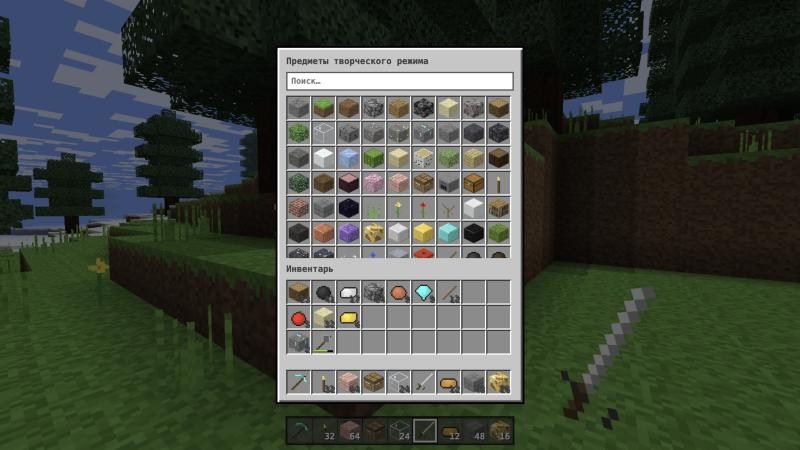
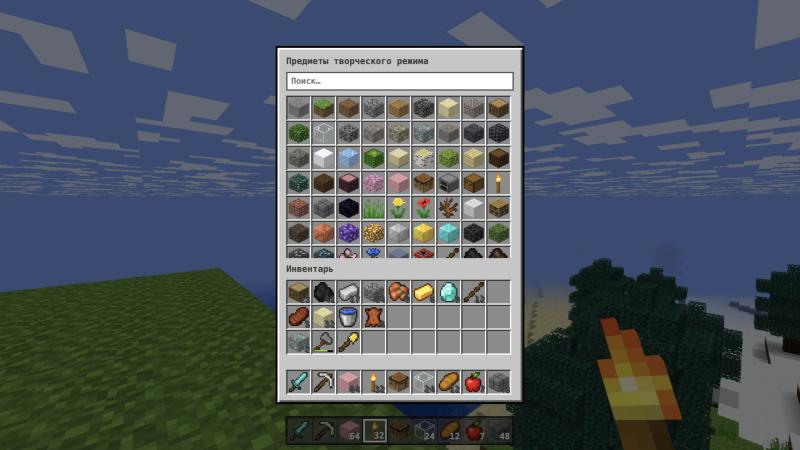
README: generated textures, 3D hand, music, new screenshots

diff --git a/README.md b/README.md
@@ -10,15 +10,16 @@
 ![TypeScript](https://img.shields.io/badge/TypeScript-strict-3178c6?logo=typescript&logoColor=white)
 ![Three.js](https://img.shields.io/badge/Three.js-r170-000000?logo=threedotjs&logoColor=white)
 ![Vite](https://img.shields.io/badge/Vite-5-646cff?logo=vite&logoColor=white)
-![Vitest](https://img.shields.io/badge/Vitest-272_tests-6e9f18?logo=vitest&logoColor=white)
+![Vitest](https://img.shields.io/badge/Vitest-387_tests-6e9f18?logo=vitest&logoColor=white)
 ![Languages](https://img.shields.io/badge/i18n-EN_·_DE_·_AZ_·_RU-c97557)
-![Assets](https://img.shields.io/badge/assets-100%25_procedural-8662bf)
+![Textures](https://img.shields.io/badge/textures-generated_with_Higgsfield-8662bf)
+![Audio](https://img.shields.io/badge/music_%26_sound-synthesized_live-e07b39)
 
 <br>
 
-<img src="docs/screenshots/gameplay.jpg" alt="Terraced hills and a cherry grove in VoxelCraft" width="860">
+<img src="docs/screenshots/gameplay.jpg" alt="A pig, cow, sheep, zombie and creeper in a cherry grove, diamond sword in hand" width="860">
 
-<sub><i>Survival mode at noon — terraced hills rolling up into a cherry grove.</i></sub>
+<sub><i>Survival at noon in a cherry grove — and everybody came to say hello.</i></sub>
 
 </div>
 
@@ -31,7 +32,7 @@
 <td width="50%" valign="top">
 
 **🌍 An endless, seeded world**<br>
-Twelve biomes — from snowy peaks and spruce taiga to deserts, swamps and the 1.20 **cherry grove** — carved by spaghetti caves and cheese caverns, layered with deepslate and tuff, and seeded with coal, iron, copper, gold and diamond.
+Twelve biomes — from snowy peaks and spruce taiga to deserts, swamps and the 1.20 **cherry grove** — carved by spaghetti caves and cheese caverns, layered with deepslate and tuff, seeded with coal, iron, copper, gold and diamond, and washed by **water and lava that really flow** (pick them up with a bucket).
 
 </td>
 <td width="50%" valign="top">
@@ -58,14 +59,22 @@ Health, hunger and saturation, fall damage and drowning, tool tiers and break ti
 <tr>
 <td valign="top">
 
-**🎨 Zero external assets**<br>
-Every texture is painted in code, pixel by pixel. Every sound — footsteps, block breaks, explosions — is synthesized live with the Web Audio API. Nothing is copied from the original game.
+**🎨 Generated art, synthesized sound**<br>
+All 147 textures — blocks, items and mob skins — were generated for this project with **Higgsfield** and cut into crisp 16×16 tiles by a tested pipeline. Original piano music is composed on the fly, and every sound, from footsteps to a cow's moo, is synthesized live. Nothing is copied from the original game.
 
 </td>
 <td valign="top">
 
+**🗡 Hands that feel right**<br>
+Held items are extruded into 3D from their own pixels, tools are gripped by the handle, and the hand follows Minecraft's swing, equip, eating and walking curves. Pigs, cows, sheep, zombies and creepers are textured box models with swinging limbs.
+
+</td>
+</tr>
+<tr>
+<td colspan="2" valign="top">
+
 **🧪 Built test-first**<br>
-272 unit tests across 19 suites pin down terrain, light, physics, crafting, mobs, saving and the full game loop. The whole suite runs in about four seconds.
+387 unit tests across 25 suites pin down terrain, light, fluids, physics, crafting, mobs, the texture pipeline, hand animation, music, saving and the full game loop. The whole suite runs in a few seconds.
 
 </td>
 </tr>
@@ -91,10 +100,16 @@ Every texture is painted in code, pixel by pixel. Every sound — footsteps, blo
 <td align="center"><sub>The creative inventory — in Russian</sub></td>
 </tr>
 <tr>
-<td colspan="2"><img src="docs/screenshots/sunset.jpg" alt="Sunset over snowy spruce hills"></td>
+<td colspan="2"><img src="docs/screenshots/sunset.jpg" alt="Sunset over snowy spruce hills, iron pickaxe in hand"></td>
 </tr>
 <tr>
 <td colspan="2" align="center"><sub>Sunset over the snowy taiga</sub></td>
+</tr>
+<tr>
+<td colspan="2"><img src="docs/screenshots/textures.png" alt="The complete texture atlas: blocks, plants, items, tools and mob skins"></td>
+</tr>
+<tr>
+<td colspan="2" align="center"><sub>Every texture in the game — generated with Higgsfield, sampled down to 16×16</sub></td>
 </tr>
 </table>
 
@@ -112,6 +127,7 @@ npm run dev        # start the dev server and open the game
 npm test           # run the unit-test suite
 npm run build      # type-check and produce an optimized build in dist/
 npm run preview    # serve the production build
+npm run textures   # rebuild the 16×16 tiles from assets/sheets
 ```
 
 ## 🎮 Controls
@@ -152,10 +168,10 @@ A test guarantees that all four dictionaries contain exactly the same keys and p
 
 | | |
 | :--- | :--- |
-| **Blocks** | 63 — stone, deepslate, tuff, four wood types, ores and their deepslate variants, copper and amethyst blocks, glass, ice, glowstone, TNT, flowers, pink petals… |
-| **Items** | 109 — 24 tools across six tiers (wood → netherite), ingots, raw ores, food |
+| **Blocks** | 60+ — stone, deepslate, tuff, four wood types, ores and their deepslate variants, copper and amethyst blocks, glass, ice, glowstone, TNT, flowers, pink petals, flowing water and lava… |
+| **Items** | 112 — 24 tools across six tiers (wood → netherite), ingots, raw ores, food, buckets |
 | **Biomes** | Ocean · beach · plains · forest · birch forest · desert · taiga · snowy plains · snowy peaks · windswept hills · cherry grove · swamp |
-| **Creatures** | Pig · cow · sheep · zombie · creeper |
+| **Creatures** | Pig · cow · sheep · zombie · creeper — textured, animated, and each with its own voice |
 | **World** | 128 blocks tall, streamed in 16×16 chunks around the player, with player edits and containers saved per world |
 
 ## 🏗 Under the hood
@@ -172,12 +188,13 @@ flowchart LR
     S["game/<br/>GameSession · inventory · crafting<br/>mining · furnace · mobs · saves"]
     M["render/mesher<br/>culling · AO · light"]
     L["i18n/<br/>en · de · az · ru"]
+    T["tools/<br/>texture pipeline"]
   end
   subgraph Shell["Browser shell"]
     direction TB
-    R["Three.js renderer<br/>sky · entities · hand"]
+    R["Three.js renderer<br/>sky · mobs · 3D hand"]
     U["DOM UI<br/>HUD · menus · inventories"]
-    A["Web Audio<br/>synthesized sounds"]
+    A["Web Audio<br/>generative music · sounds"]
   end
   App["app.ts<br/>state machine · input · game loop"]
   App --> S
@@ -187,12 +204,16 @@ flowchart LR
   S --> W & G & P
   R --> M
   U --> L
+  T -.->|build time| R
 ```
 
 - **`GameSession`** is the heart of the game: every player action — mining, placing, crafting, eating, fighting — goes through it, so the integration tests drive it exactly the way the UI does.
 - **Terrain** blends continentalness, erosion, temperature and humidity noise, then carves caves and places ores and trees per chunk — deterministic for a given seed and independent of load order.
 - **Lighting** is a breadth-first flood fill (sky light and block light in one packed byte per voxel) with incremental add and remove passes when blocks change, propagating across chunk borders.
 - **Meshing** copies each 16³ section plus a one-block border into flat arrays, then emits only visible faces, with ambient occlusion and per-vertex light. A custom GLSL shader applies daylight, warm torchlight and distance fog.
+- **Textures** start as 17 AI-generated sheets in `assets/sheets/`. `npm run textures` decodes them, samples the centre of every art pixel, keys out the magenta background and writes `src/render/tiles.generated.ts` — so tests run against the real textures.
+- **The hand** is pure math: a pose matrix per kind of held thing plus Minecraft's swing curve (`sin(p²π)`, `sin(√p·π)`), driven by an animator for swings, item swaps, eating and walking.
+- **Music** is composed, not recorded: seventh-chord progressions, a slow bass arpeggio and a sparse melody, major by day and minor at night, played on a small additive piano with reverb and spaced by minutes of silence.
 
 ### Performance
 
@@ -216,19 +237,22 @@ Every gameplay module was written red → green: a failing test first, then the 
 | `world/light` | Sunlight and shadows · torch falloff · light removal · walls · cross-chunk propagation · water dimming |
 | `physics` | Gravity · fall distance · walk/sprint/sneak speeds · jump height · wall sliding · no tunnelling · ceilings · edge sneaking · swimming · flying · raycasts · bad time steps |
 | `game` | Inventory and slot clicks · crafting · mining speed and drops · furnace · health, hunger and air · day cycle · mob AI, combat and spawning · explosions · saves · settings · a full `GameSession` integration suite |
-| `render` | Texture atlas · procedural textures · mesher culling, AO, light, water and plants · fast-path equivalence |
+| `render` | Texture atlas · every tile generated · mesher culling, AO, light, water and plants · fast-path equivalence · mob models · hand poses, swing, equip and eating · item extrusion |
+| `tools` | PNG decoding (all five row filters) · cell sampling · magenta keying · content cropping |
+| `audio` | Composer stays in key, major/minor by time of day, calm density and range · director spacing · mob voices by distance |
 | `i18n` | Identical keys and placeholders in all four languages · every block, item and biome is named · fallback · browser language detection |
 | `ui` · `input` | HUD icons · tooltips · death messages · shift-click routing · crafting results · creative search · keyboard state machine |
 
 ```bash
 npm test
-#  Test Files  19 passed (19)
-#       Tests  272 passed (272)
+#  Test Files  25 passed (25)
+#       Tests  387 passed (387)
 ```
 
 ## 🗺 Roadmap
 
-- [ ] Flowing water and lava, plus buckets
+- [x] Flowing water and lava, plus buckets
+- [x] Generated textures, textured mobs, 3D held items, music
 - [ ] Slabs, stairs, doors and beds
 - [ ] Directional blocks (furnaces and chests that face the player)
 - [ ] Taller worlds (−64 to 320) and more biomes
@@ -237,7 +261,7 @@ npm test
 
 ## ⚖ Disclaimer
 
-VoxelCraft is an independent fan project inspired by *Minecraft*. It is not affiliated with, endorsed by, or connected to Mojang Studios or Microsoft. *Minecraft* is a trademark of Mojang Synergies AB. All code, textures and sounds in this repository are original.
+VoxelCraft is an independent fan project inspired by *Minecraft*. It is not affiliated with, endorsed by, or connected to Mojang Studios or Microsoft. *Minecraft* is a trademark of Mojang Synergies AB. No files from the original game are used: the code is original, the textures were generated for this project with Higgsfield, and all music and sounds are synthesized in code.
 
 <div align="center">
 <br>
